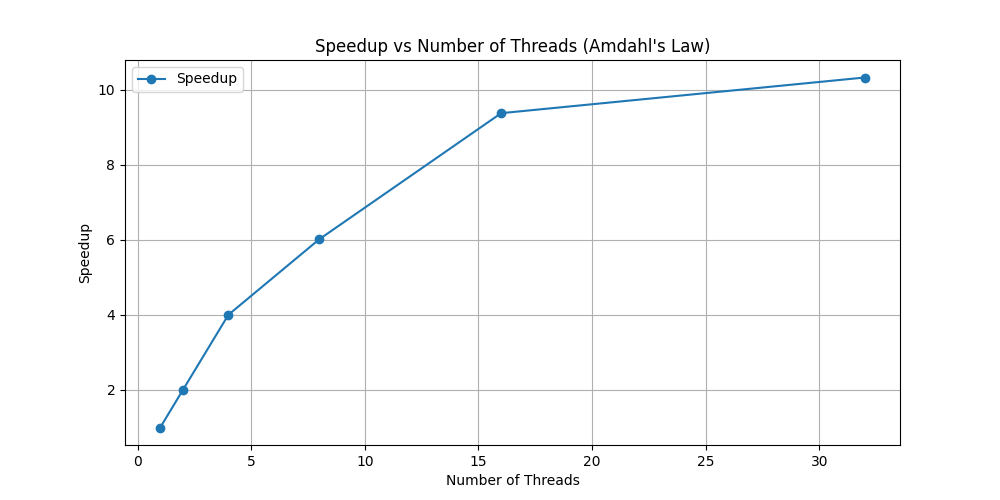
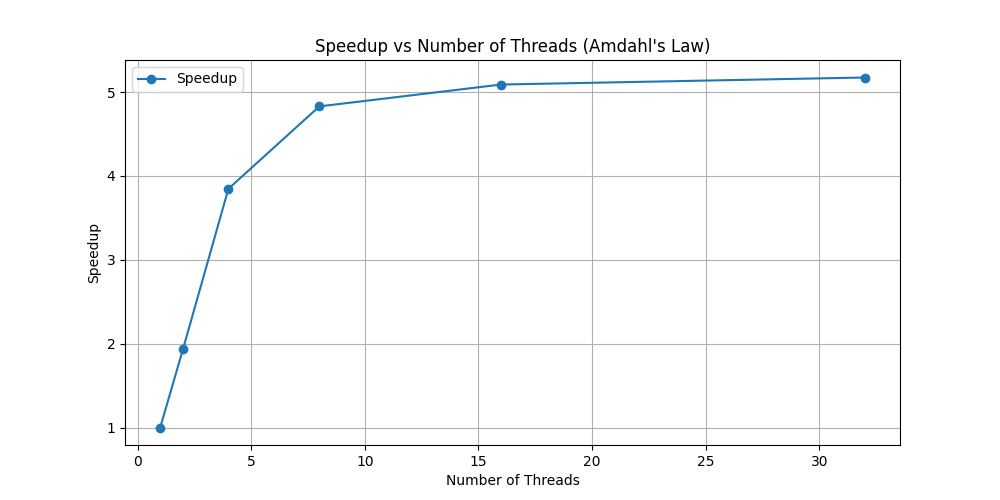
added final images with testing on live pc

diff --git a/README.md b/README.md
@@ -57,13 +57,12 @@ Disk Space: 6.3 G
 | Threads | Execution Time | Speedup |
 | ------- | -------------- | ------- |
 | 1 | 36.2499 | 1.0 |
-| 2 | 21.1306 | 2.002872611284109 |
-| 4 | 10.5706 | 4.003736779369193 |
-| 8 | 7.03364 | 6.017069397921986 |
-| 16 | 4.51372 | 9.376279432485843 |
-| 32 | 4.09819 | 10.326973615181336 |
+| 2 | 18.7686 | 1.9329252048634422 |
+| 4 | 9.43012 | 3.8470666332984096 |
+| 8 | 7.51135 | 4.829797573006184 |
+| 16 | 7.12646 | 5.090648091759443 |
+| 32 | 7.01082 | 5.174615808136567 |
 ---
-
 
 **3. Python Output**
 
